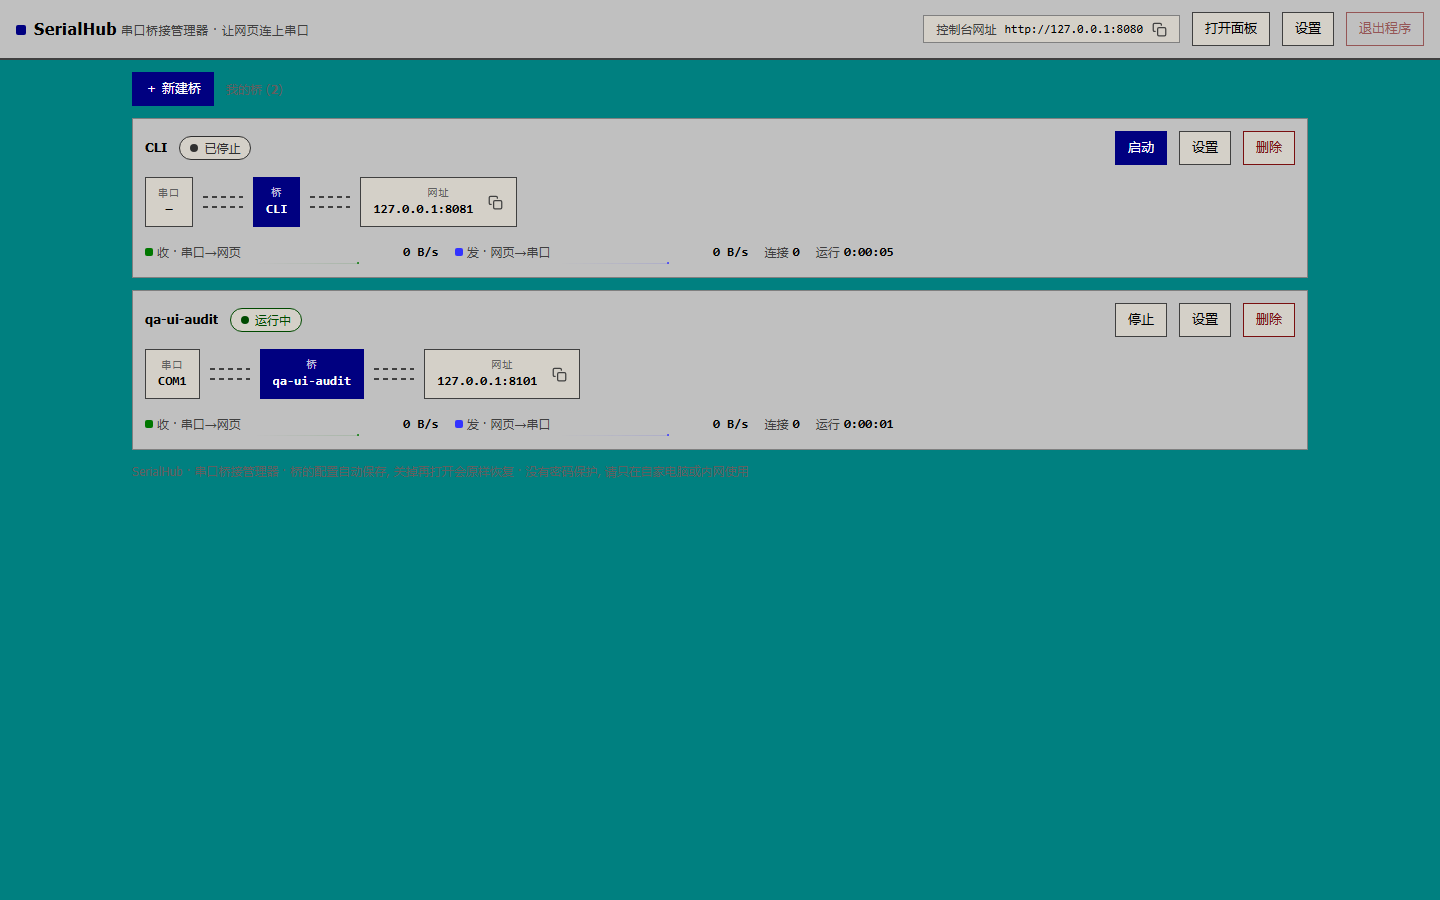
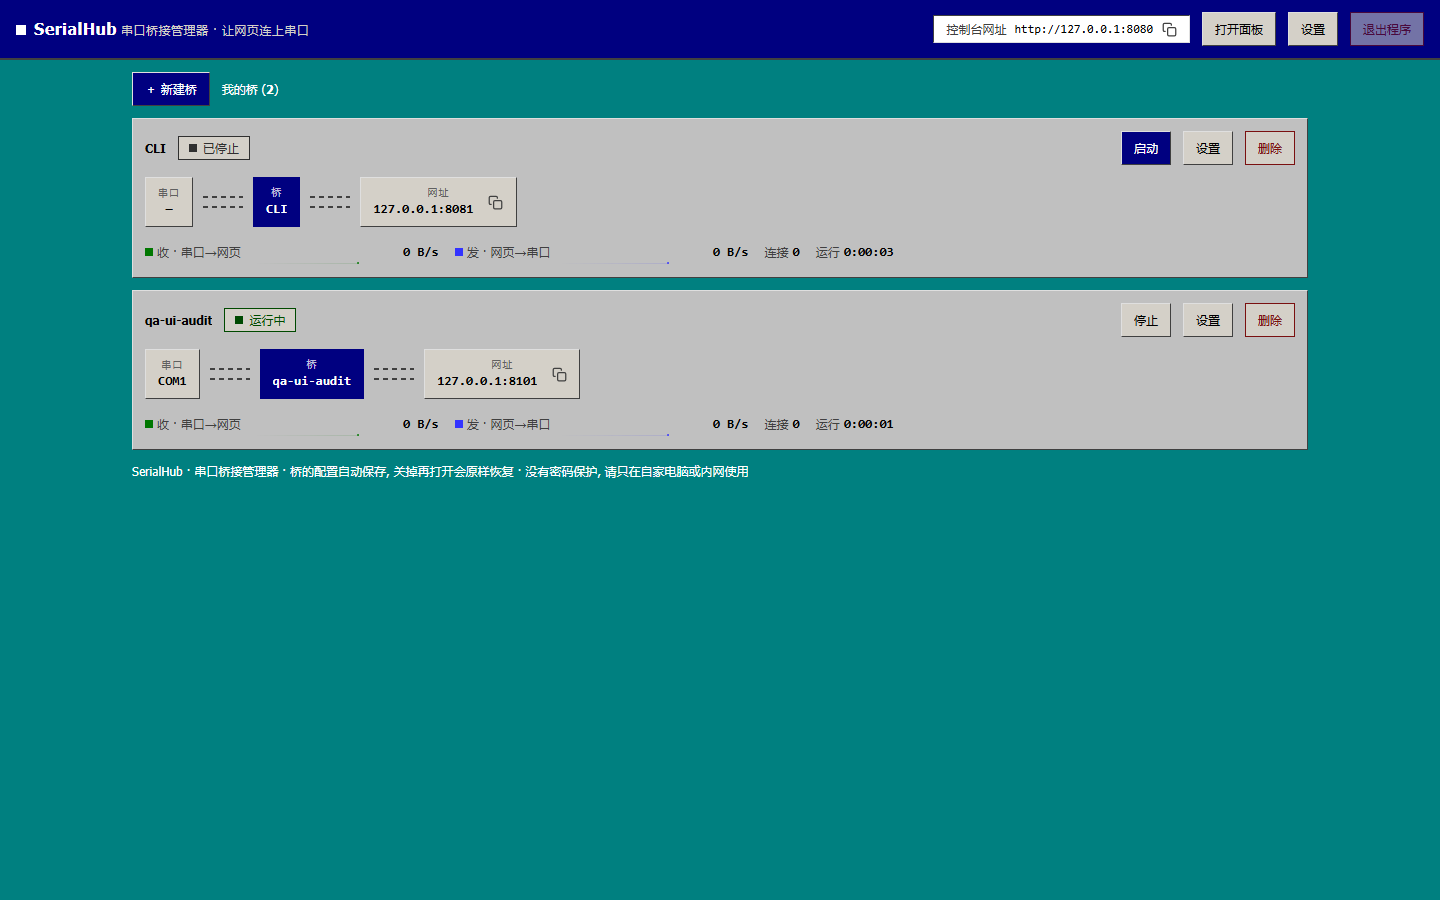
feat: v1.6.1 win95 主题正宗化 —— 凹凸立体/全站直角到底/藏蓝标题栏 (用户实测反馈)
主题格式升级为可带结构性规则: *直角到底 (含弹窗/气泡/徽章), 按钮面板外凸
边框 + 按下内陷, 页头藏蓝标题栏, 去柔和投影, Tahoma 小字号; 34/28 高度契约
与 AA 对比度不破; 像素审计 AUDIT_THEME=win95 160 控件×7 轮 0 违例
真·像素字需内嵌位图字体 (+80KB), 留候选

diff --git a/assets/themes/win95.css b/assets/themes/win95.css
@@ -1,41 +1,59 @@
 /* ============================================================
    SerialHub 内置主题: win95 (Windows 95 复古) —— FR-14 主题插件
+   Sprint 10 波2: 真·95 结构版 (参考 98.css 复原项目的做法)
    ============================================================
-   经典 Win95/98 复原风: 桌面青底 + 银灰面板 + 海军蓝标题栏,
-   配色语言参考 98.css 复原项目。直角是本主题的灵魂 ——
-   Win95 时代没有圆角, --radius 与 --ctl-radius 一律为 0。
-   配色致敬 Windows 95 与 98.css 项目。
+   第一版只覆盖了颜色令牌 —— 用户实测反馈「设置框/提示框还是圆角、
+   文字看起来是现代 UI」。Win95 的魂一半在配色, 一半在结构性样式;
+   主题文件是整张样式表 (经 <link> 挂载), 本版在令牌之外追加结构规则
+   (配色致敬 Windows 95 与 98.css 项目):
 
-   徽章策略: 底色一律回银 (#d4d0c8, 同面板内浅底), 只靠深色
-   ink 区分语义 (绿/琥珀/红/灰) —— 复古系统没有彩色底徽章,
-   且深 ink 对银底对比远超 AA。方向色取经典终端蓝/绿
-   (#0000ff/#008000), 按银底可读性微调为 #3333ff/#007700。
+   1. 直角到底: *{border-radius:0!important} —— 弹窗/提示气泡/
+      徽章 pill/输入框/按钮/抽屉, 一个圆角不剩 (伪元素 * 打不到,
+      开关滑块单独拍平)。
+   2. 凹凸立体 (Win95 的灵魂): 上左亮 #dfdfdf、下右暗 #404040 =
+      经典外凸; button:active 翻转成内陷; 输入/下拉内陷 + 白底;
+      面板/对话框一律 box-shadow:none (95 时代没有柔投影)。
+   3. 标题栏: 页头与弹窗头 = 经典藏蓝 #000080, 白色粗体字,
+      右侧/关闭钮做成银色立体小钮。
+   4. 复制气泡 = 经典土黄 tooltip #ffffe1 + 1px 黑边。
 
-   对比度自检 (WCAG, 实测):
-   - ink #000000 对 panel-2 13.7:1 / 对 panel 11.5:1;
+   诚实的边界: 浏览器字体反锯齿关不掉, 「文字分辨率」无法 100%
+   复刻像素字 —— 真·像素字需内嵌位图字体 (98.css 的 "Pixelated
+   MS Sans Serif" 思路, 约 +80KB), 留作候选项。本版能做到的是
+   小字号 (控件 12px, Win95 本来就是小字) + Tahoma 字体栈 +
+   硬边框, 把年代感找回来。
+
+   对比度自检 (WCAG, 实测; 结构改动后复核):
+   - ink #000000 对 panel-2 13.7:1 / 对 panel 11.5:1 / 输入白底 21:1;
    - muted #404040 对 panel-2 6.7:1 / 对 panel 5.7:1 (均 ≥ 4.5);
-   - faint #606060 对 panel-2 4.1:1 / 对 panel 3.5:1 —— 仅用于
-     装饰性小字/时间戳, 复古哑色取舍 (同 98.css 原版灰阶气质);
-   - accent-ink #ffffff 对 accent #000080 = 16.0:1
-     (hover #0000a8 上 13.4:1), 主按钮白字远超 AA;
-   - accent #000080 作文字/边框对 panel-2 10.4:1;
-   - 徽章 ink 对银底 #d4d0c8: ok 6.9 / warn 6.0 / err 7.2 /
-     gray 8.6 (全 ≥ 4.5);
+   - faint #606060 对 panel-2 4.1:1 / 对 panel 3.5:1 —— 仅装饰性
+     小字/时间戳 (复古哑色取舍, 同 98.css 原版灰阶气质);
+   - accent-ink #ffffff 对 accent #000080 = 16.0:1 (hover #0000a8
+     上 13.4:1), 主按钮白字远超 AA; accent 作文字/边框对 panel-2 10.4:1;
+   - 标题栏: 白字对 #000080 17.4:1; .sub 银 #d4d0c8 对藏蓝 8.2:1;
+     标题栏银钮黑字 10.4:1 —— 全 ≥ 4.5;
+   - tooltip 黑字对 #ffffe1 ≈ 17.9:1;
+   - 桌面青上的零散文字一律改白 (Win95 桌面图标字): 白对 #008080
+     5.1:1 ≥ 4.5 (银字对青仅 3.3:1, 故弃用);
+   - 徽章 ink 对银底 #d4d0c8: ok 6.9 / warn 6.0 / err 7.2 / gray 8.6;
    - 方向色按图形描边档 (≥3:1) 自检: tx #3333ff 对银 3.8:1 /
      rx #007700 对银 3.2:1 (经典原色 #0000ff/#008000 为 5.6/3.3,
      但 #0000ff 在黑终端上仅 2.4:1, 调整后两底均衡);
      UI 中 --tx/--rx 只用作连线/火花线描边与圆点, 不作正文;
-   - 终端: term-ink #e8e8e8 对 #000000 = 17.1:1;
-     时间戳 faint #606060 对黑 3.3:1 (同上, 次要信息档)。
+   - 终端: term-ink #e8e8e8 对 #000000 = 17.1:1; 时间戳 faint 对黑
+     3.3:1 (次要信息档)。
+   已知取舍 (同第一版): body 纯黑文字对桌面青 4.4:1 —— 正文实际均
+   落在银面板上, 青底只承担留白; 黑底气泡变体 (#copyTip.err) 4.4:1,
+   均 ≈ AA 线, 经典配色的固值。
 
-   附加令牌 --term-ink: 终端前景色。本主题 --ink 为纯黑而
-   --term-bg 为纯黑, 若终端继承正文色会黑上黑 —— UI 端
-   #term 以 var(--term-ink, var(--ink)) 取值, 其他主题未定义
-   此令牌, 自动回退原表现 (零变化)。
+   附加令牌 --term-ink: 终端前景色。本主题 --ink 为纯黑而 --term-bg
+   为纯黑, 若终端继承正文色会黑上黑 —— UI 端 #term 以
+   var(--term-ink, var(--ink)) 取值, 其他主题未定义此令牌, 自动回退
+   原表现 (零变化)。
 
-   已知取舍: body 纯黑文字对桌面青 #008080 为 4.4:1 (正文实际
-   均落在银面板上, 桌面青只承担留白); 黑底气泡提示文字
-   (--bg 色对 --ink 底) 4.4:1, 均 ≈ AA 线, 属经典配色的固有值。
+   契约: --ctl-h 34/28 不动 (UI-1 两档高度, 审计硬断言);
+   --ctl-radius:0 即直角期望值 (tools/ui_pixel_audit.js
+   AUDIT_THEME=win95 按此断言)。功能零变化, 只动皮肤。
    ============================================================ */
 :root{
   --bg:#008080;          /* 页面底: 经典桌面青 */
@@ -61,9 +79,60 @@
   --gap:12px; --pad:12px;
   --ctl-h:34px;
   --ctl-h-sm:28px;
-  --ctl-radius:0;        /* 控件同样直角 */
+  --ctl-radius:0;        /* 控件同样直角 (审计期望值, 勿删) */
   --ctl-px:12px;
-  --ctl-fs:13px;
-  --sans:"Tahoma","Segoe UI","Microsoft YaHei","PingFang SC",system-ui,sans-serif;
+  --ctl-fs:12px;         /* Win95 本来就是小字 (年代感; 高度契约不受影响) */
+  --sans:"Tahoma","MS Sans Serif","Microsoft YaHei",sans-serif;
   --mono:Consolas,"Cascadia Mono","SFMono-Regular",Menlo,monospace;
 }
+
+/* ==================== 结构规则 (Sprint 10 波2, 真·95 的魂) ==================== */
+
+/* ---- 1) 直角到底: 圆角一个不留 (含徽章 pill 999px / 气泡 / 弹窗 / 抽屉) ---- */
+*{border-radius:0!important}
+.switch-track::before{border-radius:0} /* * 打不到伪元素: 自动重连开关的圆滑块单独拍平 */
+
+/* ---- 2) 凹凸立体: 上左亮 / 下右暗 = 外凸; 按下翻转 = 内陷 (98.css 同款语言) ---- */
+button{border-color:#dfdfdf #404040 #404040 #dfdfdf}
+button:hover:not(:disabled){border-color:#dfdfdf #404040 #404040 #dfdfdf}
+button:active:not(:disabled){border-color:#404040 #dfdfdf #dfdfdf #404040}
+button.primary,
+button.primary:hover:not(:disabled){border-color:#dfdfdf #404040 #404040 #dfdfdf}
+button.primary:active:not(:disabled){border-color:#404040 #dfdfdf #dfdfdf #404040}
+/* 输入/下拉: 内陷 + 白底 (95 的输入域从来不透银) */
+select,input[type=number],input[type=text]{background:#fff;
+  border-color:#404040 #dfdfdf #dfdfdf #404040}
+/* 面板外凸 / 数据窗格内陷; 幽灵复制钮保持无框 (单一表面原则, 波3 ADR-21①) */
+.bcard,.node{border-color:#dfdfdf #404040 #404040 #dfdfdf}
+.bcard:hover{border-color:#dfdfdf #404040 #404040 #dfdfdf}
+.stat,.equiv,#term{border-color:#404040 #dfdfdf #dfdfdf #404040}
+.seg{border-color:#dfdfdf #404040 #404040 #dfdfdf}
+.dr-tabs button{border:1px solid;border-bottom-width:2px;
+  border-color:#dfdfdf #404040 #404040 #dfdfdf} /* 页签做成立体小舌 (选中下划线仍归基础样式) */
+.copy-ghost,.copy-ghost:hover:not(:disabled){background:transparent;border-color:transparent}
+/* 95 时代没有柔投影 */
+dialog{border-radius:0;box-shadow:none;border-color:#dfdfdf #404040 #404040 #dfdfdf}
+#drawer{box-shadow:none}
+
+/* ---- 3) 标题栏: 页头与弹窗头 = 经典藏蓝 #000080 + 白粗体字 ---- */
+header{background:#000080}
+header h1{color:#fff;font-weight:700}
+header .sub{color:#d4d0c8}
+header .brand-mark{background:#fff}
+header :focus-visible{outline-color:#fff}   /* 藏蓝底上焦点环改白 */
+.urlchip{background:#fff;border-color:#404040 #dfdfdf #dfdfdf #404040;color:#404040} /* 网址块=内陷白窗格 */
+.dlg-head{background:#000080}
+.dlg-head h2{color:#fff;font-weight:700}
+.dlg-head :focus-visible{outline-color:#fff}
+/* 弹窗关闭钮 = 标题栏银色立体小钮 (98.css title-bar button 同款; 高度仍走 28 紧凑档) */
+.dlg-head .x-btn{background:#c0c0c0;border:1px solid;
+  border-color:#dfdfdf #404040 #404040 #dfdfdf;color:#000}
+.dlg-head .x-btn:hover{color:#000}
+.dlg-head .x-btn:active{border-color:#404040 #dfdfdf #dfdfdf #404040}
+
+/* ---- 4) 复制气泡 = 经典土黄 tooltip (黑字对 #ffffe1 17.9:1) ---- */
+#copyTip{background:#ffffe1;color:#000;border:1px solid #000}
+
+/* ---- 5) 桌面青上的零散文字改白 (Win95 桌面图标字; 银字对青仅 3.3:1) ---- */
+footer,.toolbar .count{color:#fff}
+.emptybox{background:var(--panel)} /* 空状态落回银面板, 不直接躺青底 */

diff --git a/docs/team/reports/dev-sprint10-backend.md b/docs/team/reports/dev-sprint10-backend.md
@@ -84,3 +84,48 @@ curl→kill** 后一切正常, 桥本身无问题。期间观察到第三方 rel
   令牌层与服务链路。
 
 - UI 席复核通过 (301): 三主题 --term-ink 未定义均落回 --ink, 与原继承值零视觉差; 写法/位置合规, 已并入 ui/index.html 结构约定。
+
+## 6. 波2 · win95 主题「真·95 结构版」(主题席, 2026-09-14)
+
+用户实测反馈「win95 不够正宗: 设置框/提示框还是圆角、颜色不对、文字像现代 UI」。
+根因: 第一版只覆盖了颜色令牌, Win95 的魂在结构性样式。重写 `assets/themes/win95.css`,
+在令牌之外追加结构规则 (参考 98.css 做法; 主题文件是整张样式表, 经 `<link>` 挂载):
+
+- **直角到底**: `*{border-radius:0!important}` —— 弹窗/提示气泡/徽章 pill/输入框/
+  按钮/抽屉一个圆角不剩; `.switch-track::before` (伪元素, `*` 打不到) 单独拍平。
+- **凹凸立体**: 按钮/下拉/面板/对话框 `border-color:#dfdfdf #404040 #404040 #dfdfdf`
+  (上左亮下右暗), `button:active` 翻转内陷; 输入/下拉内陷 + 白底; `.stat/.equiv/#term`
+  内陷; 弹窗/抽屉 `box-shadow:none` (95 没有柔投影); 幽灵复制钮保持无框; 页签做立体小舌。
+- **标题栏**: 页头与弹窗头 = 藏蓝 #000080 白粗体字, 弹窗关闭钮 = 银色立体小钮,
+  网址块 = 内陷白窗格; 藏蓝底上焦点环改白。
+- **颜色/字体深化**: 复制气泡 = 经典土黄 tooltip #ffffe1 + 1px 黑边; 桌面青上的零散
+  文字 (footer/工具条计数) 改白 (银字对青仅 3.3:1, 白 5.1:1); 字体栈
+  `Tahoma,"MS Sans Serif","Microsoft YaHei",sans-serif`; 控件字号 12px
+  (**--ctl-h 34/28 未动**, 高度契约保持)。
+- **诚实边界**: 文件头注明浏览器字体反锯齿关不掉, 文字分辨率无法 100% 复刻像素字;
+  真·像素字需内嵌位图字体 (约 +80KB) 留作候选项。
+- 对比度复核全过: 标题栏白字 17.4:1 / .sub 8.2:1 / 银钮黑字 10.4:1 / tooltip 17.9:1 /
+  输入白底黑字 21:1; 徽章与方向色沿用第一版自检值。
+
+### 验证
+
+- `cargo test themes` 9/9 过 (含 `win95_theme_pins_retro_tokens` 致敬语 pin —— 波2
+  首跑曾因重写丢了该注释句挂红, 已补回; 全部令牌 pin 一直绿);
+- `AUDIT_THEME=win95 node tools/ui_pixel_audit.js` → **PASS**: 160 可见控件 × 7 轮,
+  高度 ∈ {28,34}±0.5, 圆角 = 0±0.5, 违例 0; 全景存
+  `docs/team/reports/qa-sprint10/admin-panorama-win95.png`;
+- 真机截图 (COM1 桥 win95-demo open, headless 8093) 存
+  `docs/team/reports/dev-sprint10-ui/`: win95-pano-dashboard.png (浅银/青底全景) +
+  特写 ×5: dialog-settings / dialog-new (藏蓝标题栏+银钮) / tooltip (土黄气泡) /
+  badge (方形徽章+银钮排) / drawer (立体页签+内陷白输入+方形开关)。
+- 功能零变化, 只动 `assets/themes/win95.css` (+二进制重嵌); 未 commit。
+
+### 插曲 (给后续真机测试避坑)
+
+1. 起手时 8080 有常驻 serialhub.exe (PID 53296, 有活跃浏览器连接) 锁住二进制,
+   按 audit 同款口径 `taskkill /IM` 清掉后才能重链; 波2 首次审计/截图全跑在旧皮肤上
+   险些误判 —— 排查发现 `target/release/themes/win95.css` 是 `ensure_builtin` 早期
+   落盘的**旧副本, 会遮蔽新内置主题** (磁盘命中优先, 用户编辑不被覆盖属设计行为)。
+   **改内置主题后必须删 `target/release/themes/<name>.css` 再起后端**, 已删除并由新
+   二进制重新落盘 (8094 字节)。收尾 tasklist 无 serialhub 残留, 8080/8092/8093 全释放,
+   临时脚本已删; **COM8 全程未碰** (仅审计桥 COM1)。

diff --git a/CHANGELOG.md b/CHANGELOG.md
@@ -1,5 +1,14 @@
 # SerialHub 更新日志
 
+## v1.6.1 — 2026-09-14
+
+### 改进: win95 主题正宗化 (用户实测反馈)
+- 结构规则升级: 全站直角到底 (含弹窗/提示气泡/徽章)、按钮与面板凹凸立体边框
+  (外凸/按下内陷)、页头藏蓝 #000080 标题栏、去柔和投影、Tahoma 小字号
+- 说明: 浏览器字体反锯齿无法关闭, 真·像素字需内嵌位图字体 (约 +80KB, 候选项)
+- 注意: themes/win95.css 落盘副本会遮蔽内置更新 —— 升级后若主题没变,
+  删 themes/win95.css 重启即可 (新版本会重新落盘)
+
 ## v1.6.0 — 2026-09-14
 
 ### 新增: Windows 95 主题 (内置第四套)
